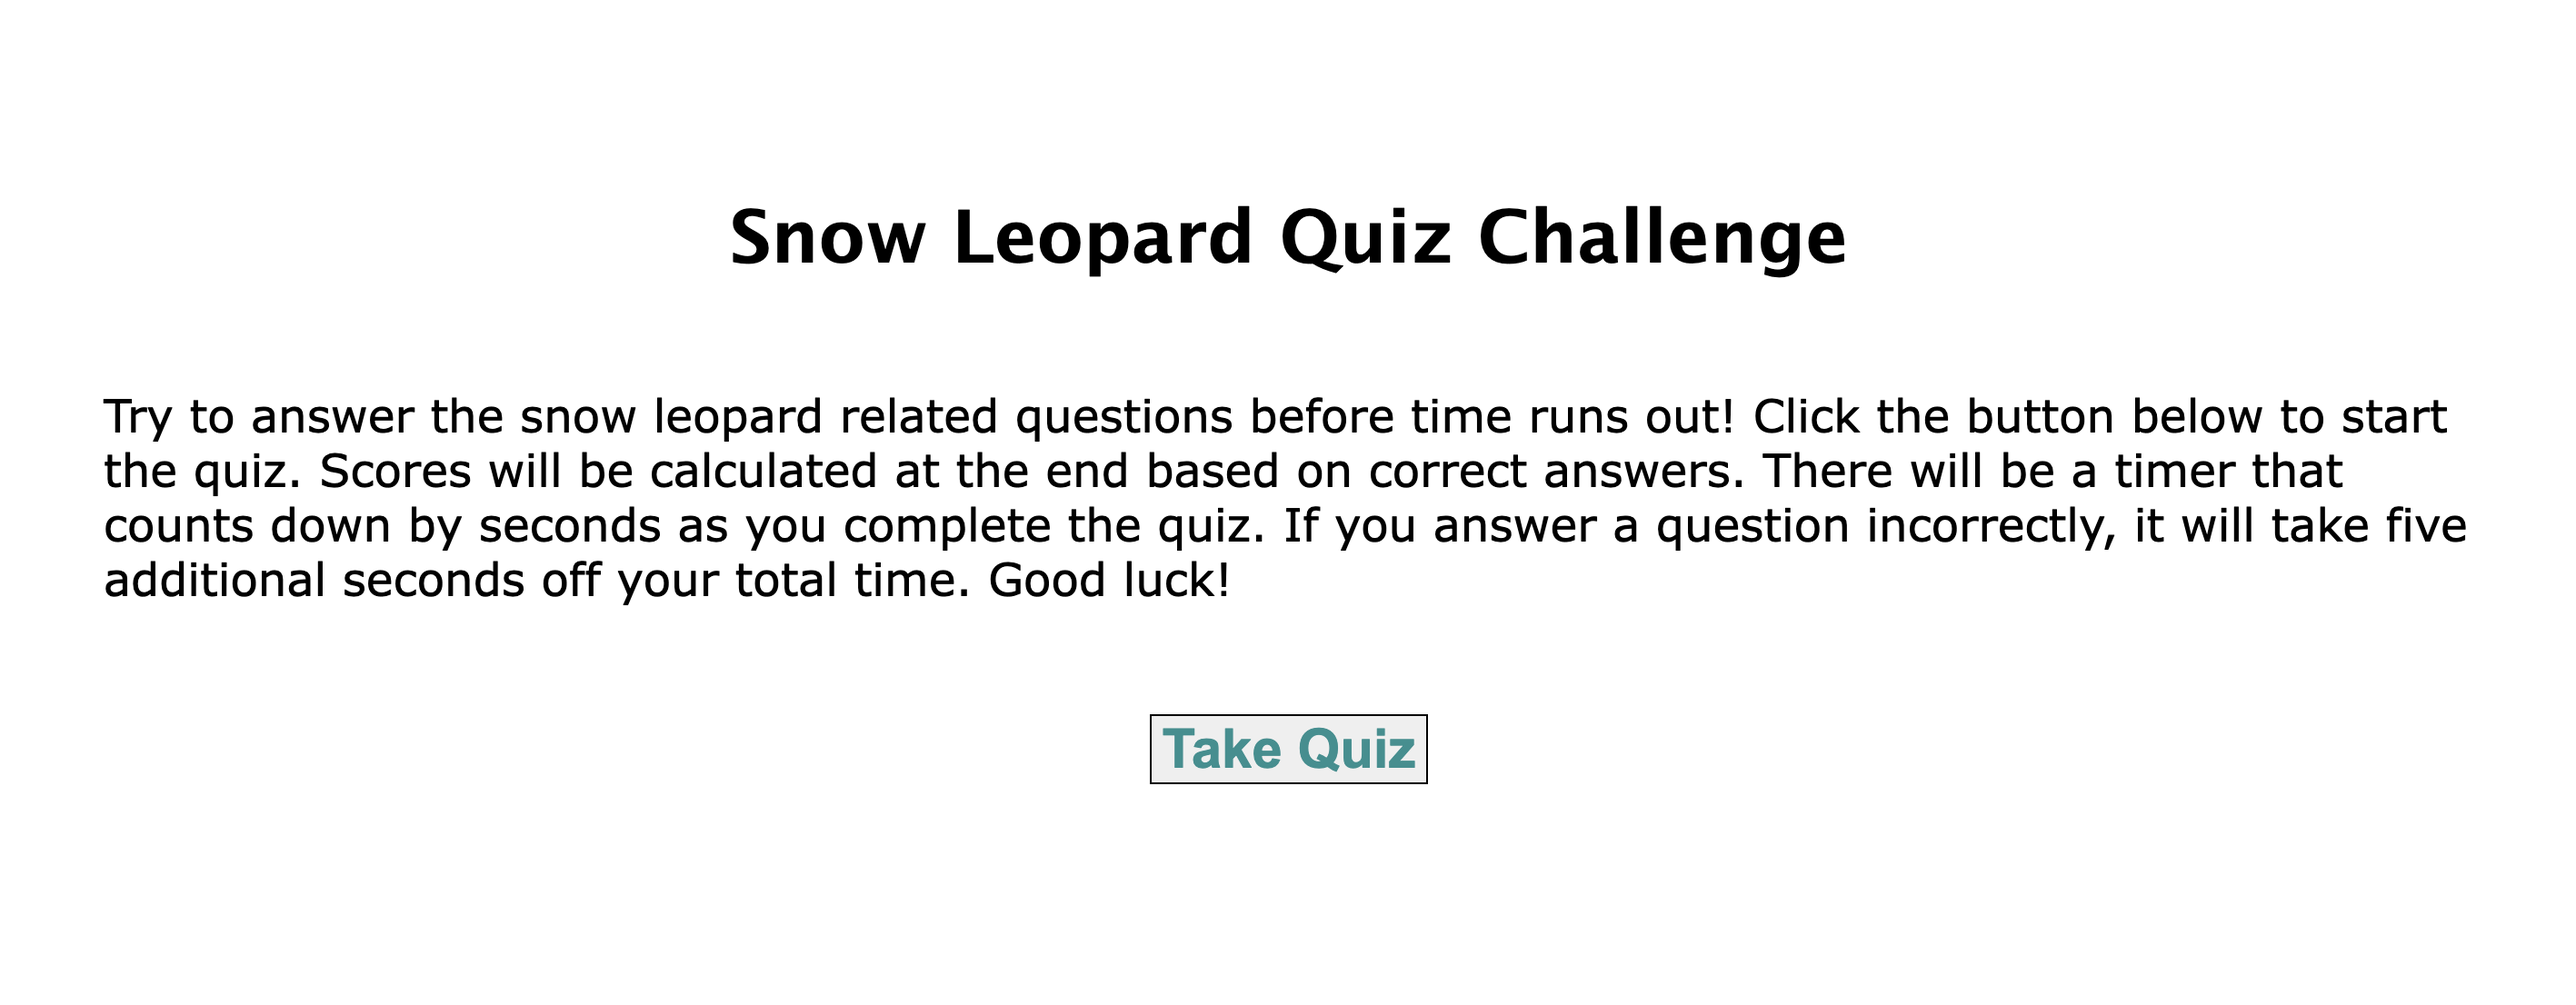
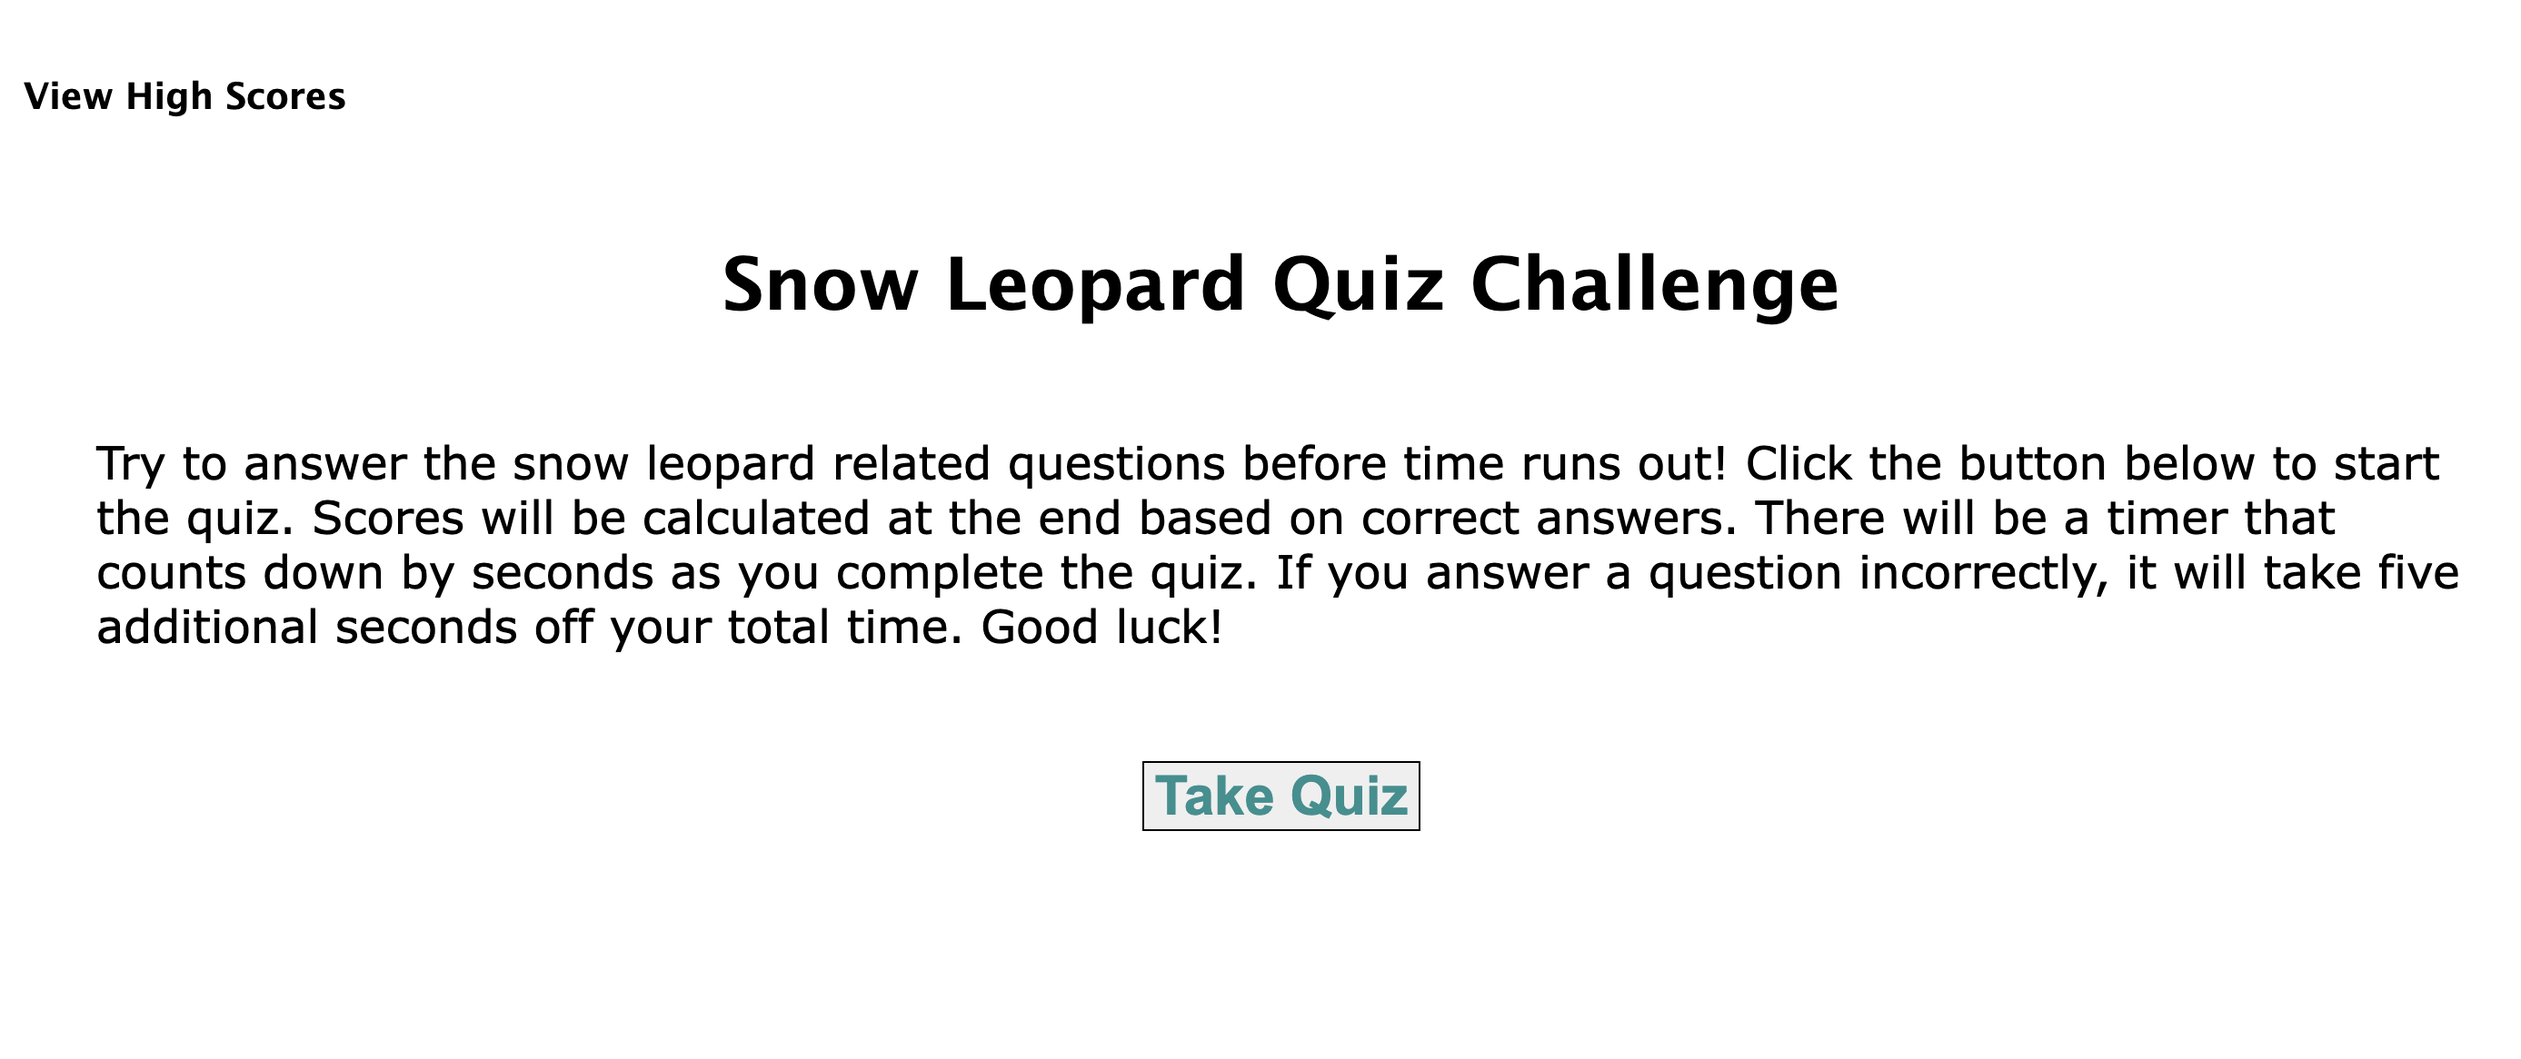
final touches

diff --git a/assets/js/javascript.js b/assets/js/javascript.js
@@ -11,6 +11,7 @@ var correct = document.querySelector("#correct");
 var endScreen = document.querySelector("#endScreen")
 var highScoresScreen = document.querySelector('#highScoresScreen')
 var scoreboard = document.querySelector('#scoreboard');
+var viewHighScoresButton = document.querySelector("#viewHighS")
 var questionsCounter = 0;
 
 var winCounter = 0;
@@ -233,5 +234,6 @@ init();
 
 //startButton will startQuiz when clicked 
 startButton.addEventListener("click", runQuiz);
+
 
 

diff --git a/index.html b/index.html
@@ -9,7 +9,10 @@
 </head>
 
 <body>
-  <h1 id="timer" class="time" style="text-align: right;"></h1>
+  <section id="topOfPage">
+    <h1 id="viewHighS">View High Scores</h1>
+    <h1 id="timer" class="time" style="text-align: right;"></h1>
+  </section>
   <section class="welcomeScreen">
     <h1>Snow Leopard Quiz Challenge</h1>
     <p class="text">Try to answer the snow leopard related questions before time runs out! Click the button below

diff --git a/assets/css/styles.css b/assets/css/styles.css
@@ -146,3 +146,16 @@ button#buttonGoBack {
 body {
   display: block;
 }
+
+section#topOfPage {
+  display: flex;
+  flex-direction: row;
+  justify-content: space-between;
+}
+
+h1#viewHighS {
+  display: flex;
+  flex-direction: column;
+  justify-content: center;
+  font-size: 20px;
+}
